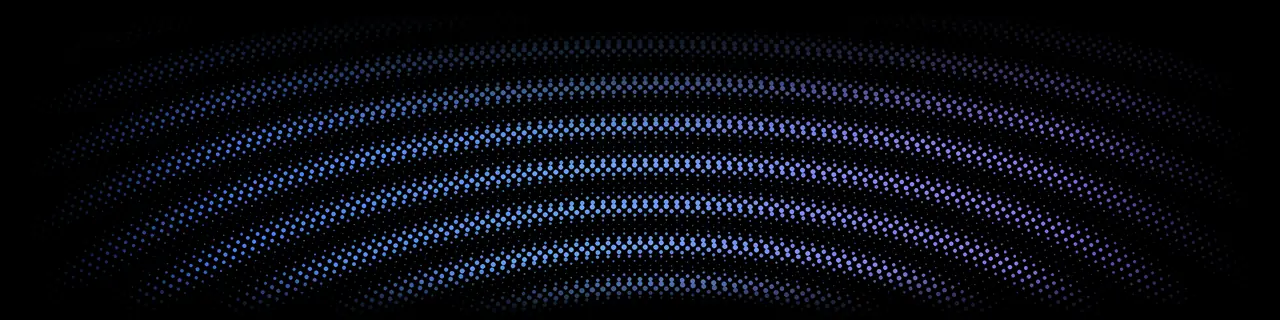
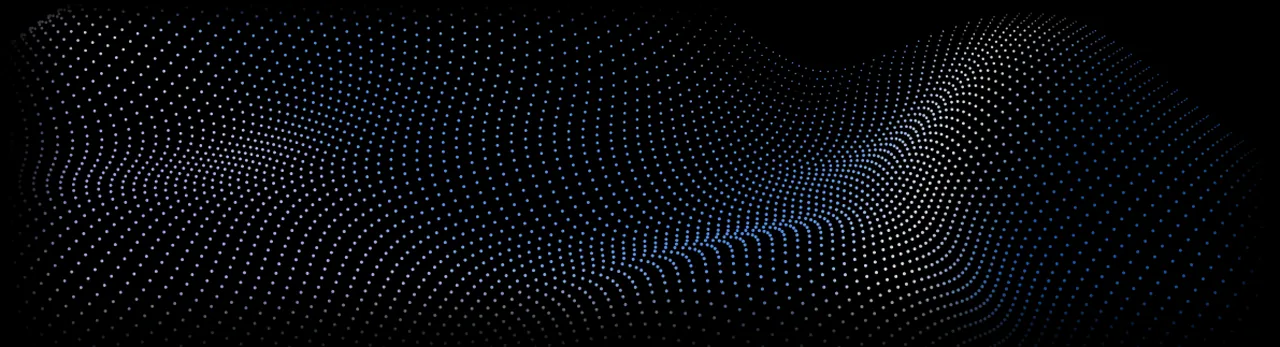
design(homepage): one fine point-cloud wave at the base of the hero; remove every other dot layer
Swap the ripple textures for the prepared Laventus-style point cloud, as a
fixed-height strip (not an aspect ratio) with a soft top mask over a
near-black scrim, content kept above it. Remove the closing CTA and footer
ripples, the uniform dot grid and its tokens, and the unused band images.

Changed region(s): [[0.0312, 0.0625, 0.9375, 0.9688], [0.0312, 0.0312, 0.0625, 0.125], [0.0312, 0.1562, 0.0625, 0.2188]]

diff --git a/index.html b/index.html
@@ -109,12 +109,7 @@ j=d.createElement(s),dl=l!='dataLayer'?'&l='+l:'';j.async=true;j.src=
   --shadow-lg: inset 0 1px 0 rgba(255,255,255,.08), 0 0 64px rgba(47,98,246,.22), 0 0 28px rgba(124,94,251,.14);
 
   /* Dot texture: pure CSS, no asset */
-  --dots-colour: 156, 200, 255;
-  --dots-strength: .12;           /* quiet secondary texture; the ripples carry the hero, closing CTA and footer */
-  --dots-size: 24px 24px;
-  --dots: radial-gradient(rgba(var(--dots-colour), var(--dots-strength)) 1.2px, transparent 1.7px);
-  --dots-fade-y: linear-gradient(to bottom, transparent 0, #000 18%, #000 82%, transparent 100%);
-  --dots-fade-x: linear-gradient(to right, transparent 0, #000 8%, #000 92%, transparent 100%);
+  --hero-strip: clamp(240px, 32vh, 420px);   /* height of the dot wave at the base of the hero */
 
   /* Type scale */
   --fs-h1: clamp(44px, 5.3vw, 76px);
@@ -804,33 +799,16 @@ img{max-width:100%}
 .wz-band--tight{padding:calc(var(--section-gap) * .6) 0}
 /* Canvas bands: a breath lighter than black. */
 .wz-band--canvas{background:var(--surface-canvas)}
-/* Dot texture: pure CSS, no image. One lattice (same size, same phase,
-   centre-top anchored) on a chosen set of bands, each through a pseudo-element
-   that sits above the band background and below its content, faded top and
-   bottom (and at the sides) so no seam or phase jump shows. Strength and size
-   live in :root (--dots-strength, --dots-size). Never behind the guide or
-   privacy text, never over the hero photograph. */
-.wz-band--ink,.wz-band:has(.wz-mockup__picker-body),.wz-band--canvas:has(.wz-mockup--campaigns),.wz-band--canvas:has(.wz-faq),#route-modules>.wz-band:first-child,.wz-module-section:nth-of-type(even),#route-ai-voice-agent>.wz-band,#route-enquire>.wz-band,#route-thank-you>.wz-band,.wz-footer{position:relative;isolation:isolate}
-.wz-band--ink::before,.wz-band:has(.wz-mockup__picker-body)::before,.wz-band--canvas:has(.wz-mockup--campaigns)::before,.wz-band--canvas:has(.wz-faq)::before,#route-modules>.wz-band:first-child::before,.wz-module-section:nth-of-type(even)::before,#route-ai-voice-agent>.wz-band::before,#route-enquire>.wz-band::before,#route-thank-you>.wz-band::before,.wz-footer::before{content:"";position:absolute;inset:0;z-index:-1;pointer-events:none;background:var(--dots) center top/var(--dots-size);-webkit-mask-image:var(--dots-fade-y),var(--dots-fade-x);-webkit-mask-composite:source-in;mask-image:var(--dots-fade-y),var(--dots-fade-x);mask-composite:intersect}
-/* AI Voice Agent and Enquire: dots only behind the header region of a long page. */
-#route-ai-voice-agent>.wz-band::before,#route-enquire>.wz-band::before{bottom:auto;height:min(100%,720px)}
-/* Thank-you: a soft dotted pool behind the tick. */
-#route-thank-you>.wz-band::before{-webkit-mask-image:radial-gradient(ellipse 42% 60% at 50% 42%,#000 15%,transparent 75%);-webkit-mask-composite:source-over;mask-image:radial-gradient(ellipse 42% 60% at 50% 42%,#000 15%,transparent 75%);mask-composite:add}
-/* Footer: dots across the whole block, fading only at its top edge, plus a faint
-   blue and purple glow behind the logo and description. */
-.wz-footer::before{background:url("images/weighzio-dots-band.webp") center bottom/100% auto no-repeat;-webkit-mask-image:none;mask-image:none;mix-blend-mode:screen;opacity:.55}
-@media (max-width:700px){.wz-footer::before{background-image:url("images/weighzio-dots-band-1280.webp");background-size:auto 200px;opacity:.42}}
+/* Dots: one fine point-cloud wave at the base of the hero (see .wz-hero::after) and
+   nothing else. There is no dot grid on any band, and none behind text, links or the footer. */
+.wz-band--ink,.wz-footer{position:relative;isolation:isolate}
+/* Footer: a faint blue and purple glow behind the logo and description. */
 .wz-footer::after{content:"";position:absolute;inset:0;z-index:-1;pointer-events:none;background:radial-gradient(42% 80% at 10% 45%,rgba(47,98,246,.15),transparent 70%),radial-gradient(34% 70% at 30% 70%,rgba(124,94,251,.12),transparent 70%)}
-/* Hero: dots only in the bottom 30%, where the scrim fades to black. */
-.wz-hero::after{content:"";position:absolute;left:0;right:0;bottom:0;width:100%;aspect-ratio:4/1;pointer-events:none;background:url("images/weighzio-dots-hero.webp") center bottom/cover no-repeat;mix-blend-mode:screen}
-@media (max-width:700px){.wz-hero::after{aspect-ratio:auto;height:240px;background-image:url("images/weighzio-dots-hero-1280.webp");-webkit-mask-image:linear-gradient(to bottom,transparent 0,#000 50%);mask-image:linear-gradient(to bottom,transparent 0,#000 50%)}}
+/* Hero wave: a fixed-height strip (never an aspect ratio) in the bottom of the hero, where the scrim is near-black. */
+.wz-hero::after{content:"";position:absolute;left:0;right:0;bottom:0;z-index:0;height:var(--hero-strip);pointer-events:none;background:url("images/weighzio-dots-hero.webp") center 62%/cover no-repeat;mix-blend-mode:screen;opacity:.8;-webkit-mask-image:linear-gradient(to bottom,transparent 0,#000 42%);mask-image:linear-gradient(to bottom,transparent 0,#000 42%)}
+@media (max-width:700px){.wz-hero::after{--hero-strip:200px;background-image:url("images/weighzio-dots-hero-1280.webp")}}
 .wz-band--ink{background:var(--g-panel);color:var(--c-text-bright)}
-/* Closing CTA band: the ripple is the band's ::before (screen blend, dimmed), anchored to the bottom
-   with extra bottom padding so the copy sits above the bright rings. */
-.wz-band--ink.wz-band--tight{padding-bottom:calc(var(--section-gap) * .6 + 100px)}
-.wz-band--tight::before{inset:auto 0 0 0;height:auto;aspect-ratio:6.1/1;background:url("images/weighzio-dots-band.webp") center bottom/100% 100% no-repeat;-webkit-mask-image:none;mask-image:none;mix-blend-mode:screen;opacity:.7}
-@media (max-width:700px){.wz-band--ink.wz-band--tight{padding-bottom:calc(var(--section-gap) * .6 + 90px)}.wz-band--tight::before{aspect-ratio:auto;height:200px;background-image:url("images/weighzio-dots-band-1280.webp");background-size:auto 100%}}
-/* The blue and purple glows sit on their own layer (below the dots) so their opacity can breathe. */
+/* The blue and purple glows sit on their own layer so their opacity can breathe. */
 .wz-band--ink::after{content:"";position:absolute;inset:0;z-index:-2;pointer-events:none;background:radial-gradient(70% 90% at 85% 0%,rgba(124,94,251,.20),transparent 65%),radial-gradient(60% 80% at 5% 100%,rgba(47,98,246,.16),transparent 65%)}
 .wz-band--ink h2,.wz-band--ink h3,.wz-band--ink strong{color:var(--white)}
 .wz-band--ink a:not(.wz-btn){color:var(--c-link)}
@@ -850,8 +828,8 @@ img{max-width:100%}
    slightly via the padding split (more bottom than top) rather than a
    transform, so the leftover space in the 100vh band falls below the CTA. */
 /* Capped to roughly one screen so the photo isn't stretched into a tall box. */
-.wz-hero{position:relative;min-height:min(100vh,860px);min-height:min(100svh,860px);display:flex;align-items:center;justify-content:center;overflow:hidden;background:var(--surface-ink);padding:calc(var(--header-h) + 28px) var(--gutter) clamp(160px,19vw,270px)}
-@media (max-width:700px){.wz-hero{padding-bottom:170px}}
+.wz-hero{position:relative;min-height:min(100vh,860px);min-height:min(100svh,860px);display:flex;align-items:center;justify-content:center;overflow:hidden;background:var(--surface-ink);padding:calc(var(--header-h) + 28px) var(--gutter) var(--hero-strip)}
+@media (max-width:700px){.wz-hero{padding-bottom:200px}}
 .wz-hero__img{position:absolute;inset:0;width:100%;height:100%;object-fit:cover;object-position:center}
 /* The photo is a wide shot: the skip lorry sits in the left third, a long
    stretch of empty wet tarmac fills the middle. Centred cropping on a
@@ -864,9 +842,9 @@ img{max-width:100%}
 /* Black to deep blue/purple over the photograph: the yard stays visible in the
    middle, the top fades under the header and the bottom melts into the black
    page. Dot texture rides on top. */
-.wz-hero__scrim{position:absolute;inset:0;background:radial-gradient(78% 34% at 50% 36%,rgba(0,0,0,.72),transparent 88%),radial-gradient(60% 50% at 50% 62%,rgba(0,0,0,.40),transparent 85%),linear-gradient(180deg,rgba(0,0,0,.58) 0%,rgba(10,16,44,.46) 40%,rgba(20,13,43,.62) 72%,#000 100%)}
+.wz-hero__scrim{position:absolute;inset:0;background:linear-gradient(to top,#000 0,rgba(0,0,0,.95) calc(var(--hero-strip) * .6),transparent calc(var(--hero-strip) * 1.3)),radial-gradient(78% 34% at 50% 36%,rgba(0,0,0,.72),transparent 88%),radial-gradient(60% 50% at 50% 62%,rgba(0,0,0,.40),transparent 85%),linear-gradient(180deg,rgba(0,0,0,.58) 0%,rgba(10,16,44,.46) 40%,rgba(20,13,43,.62) 72%,#000 100%)}
 /* Phones: the headline spans the full width, so darken the whole photo a touch more. */
-@media (max-width:700px){.wz-hero__scrim{background-image:linear-gradient(rgba(0,0,0,.28),rgba(0,0,0,.28)),radial-gradient(78% 34% at 50% 36%,rgba(0,0,0,.72),transparent 88%),radial-gradient(60% 50% at 50% 62%,rgba(0,0,0,.40),transparent 85%),linear-gradient(180deg,rgba(0,0,0,.58) 0%,rgba(10,16,44,.46) 40%,rgba(20,13,43,.62) 72%,#000 100%)}}
+@media (max-width:700px){.wz-hero__scrim{--hero-strip:200px;background-image:linear-gradient(to top,#000 0,rgba(0,0,0,.95) calc(var(--hero-strip) * .6),transparent calc(var(--hero-strip) * 1.3)),linear-gradient(rgba(0,0,0,.28),rgba(0,0,0,.28)),radial-gradient(78% 34% at 50% 36%,rgba(0,0,0,.72),transparent 88%),radial-gradient(60% 50% at 50% 62%,rgba(0,0,0,.40),transparent 85%),linear-gradient(180deg,rgba(0,0,0,.58) 0%,rgba(10,16,44,.46) 40%,rgba(20,13,43,.62) 72%,#000 100%)}}
 .wz-hero__inner{position:relative;z-index:1;width:100%;max-width:var(--container-max);margin:0 auto;display:flex;flex-direction:column;align-items:center;text-align:center}
 .wz-hero__mark{display:flex;align-items:center;gap:14px;margin-bottom:22px}
 @media (max-width:700px){.wz-hero__mark .wz-burst{display:none}}
@@ -1770,7 +1748,7 @@ img{max-width:100%}
   html,body{background:#fff!important}
   body{font-size:11pt;line-height:1.5;display:block}
   .wz-band::after,.wz-module::after{display:none!important}
-  .wz-header,.wz-scrim,.wz-hero__scrim,.wz-guide__toc,.wz-menu-toggle,.wz-nav-mobile,.wz-footer__social,.wz-btn,.wz-card::before,.wz-module::before,.wz-band::before,.wz-module-section::before,.wz-footer::before,.wz-footer::after,.wz-hero::after{display:none!important}
+  .wz-header,.wz-scrim,.wz-hero__scrim,.wz-guide__toc,.wz-menu-toggle,.wz-nav-mobile,.wz-footer__social,.wz-btn,.wz-card::before,.wz-module::before,.wz-band::after,.wz-footer::after,.wz-hero::after{display:none!important}
   .wz-band,.wz-band--tight{padding:14pt 0!important}
   .wz-route--inner > .wz-band:first-child{padding-top:0!important}
   .wz-guide{display:block}
